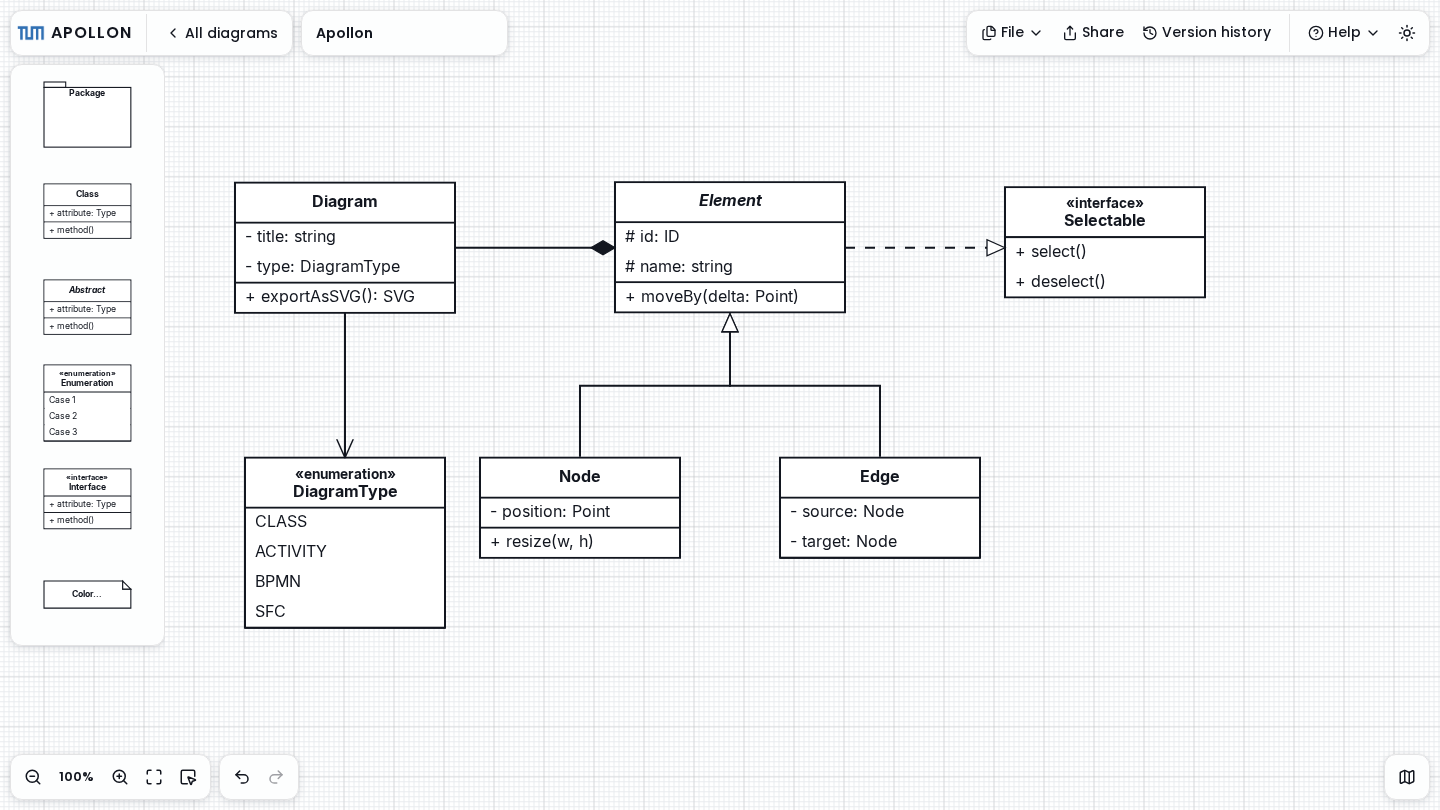
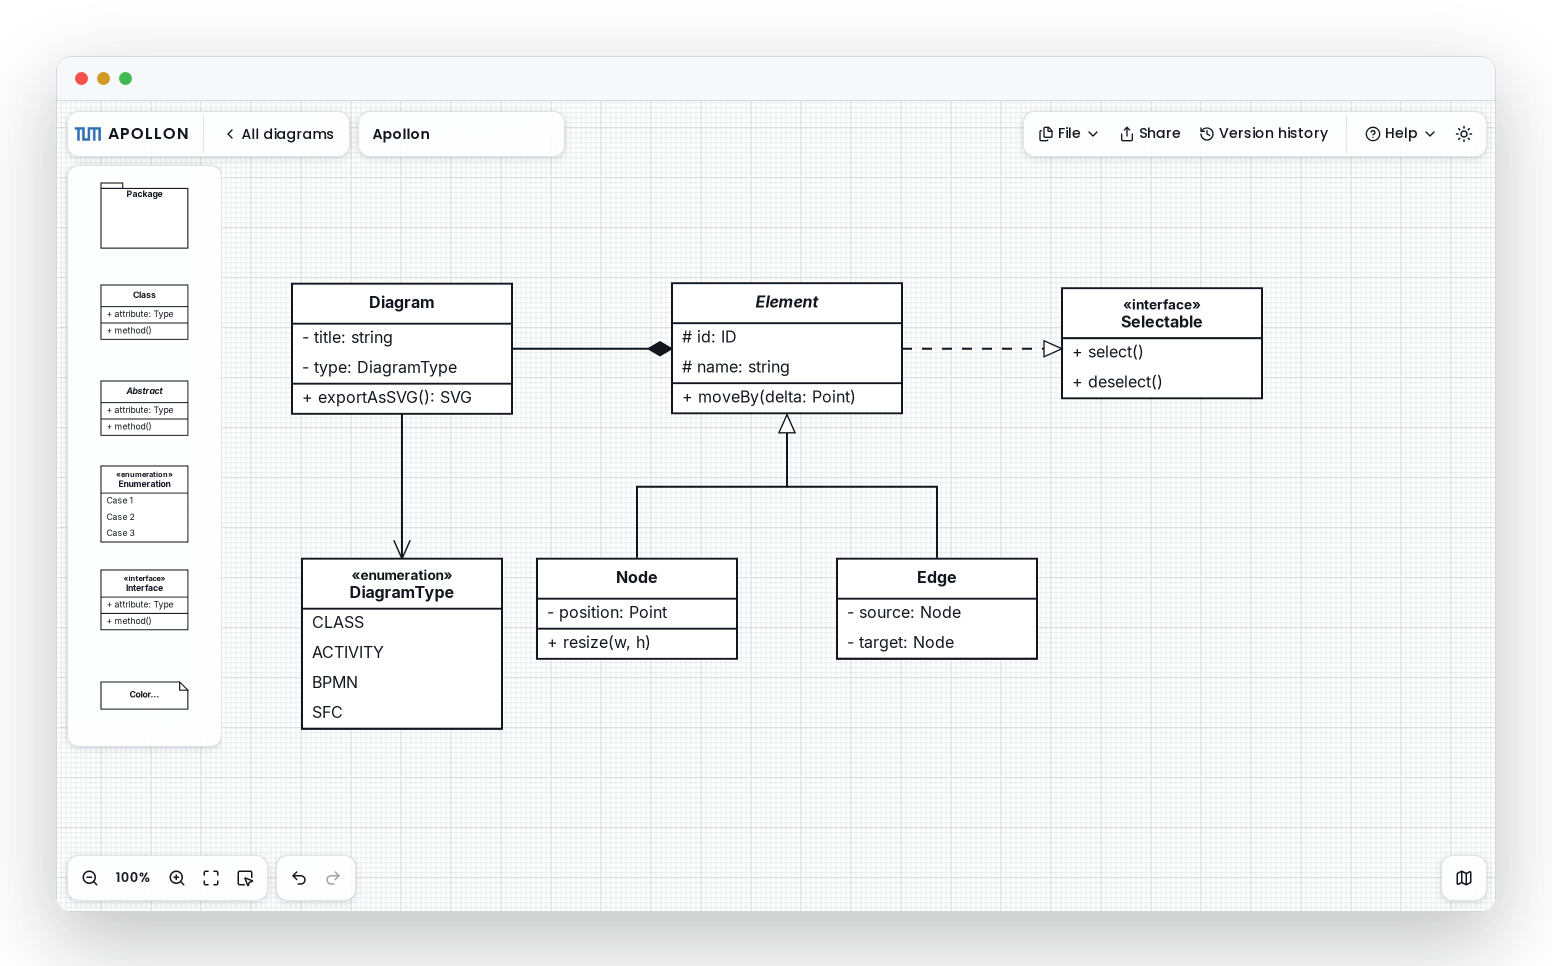
docs: present the README hero in a browser-window frame
Bare full-viewport screenshots read as a flat rectangle in the README. Wrap
the captured editor in the same window styling the social card uses -
rounded corners, titlebar with traffic lights, border, soft drop shadow -
over transparent margins, so the hero sits cleanly on both GitHub's light
and dark README backgrounds. The frame embeds the 2x capture at its CSS
size in the same deviceScaleFactor-2 context (1:1 source pixels, no
fractional resampling of diagram hairlines).

diff --git a/standalone/webapp/tests/visual/readme-assets.visual.spec.ts b/standalone/webapp/tests/visual/readme-assets.visual.spec.ts
@@ -67,17 +67,93 @@ async function openHero(page: Page, theme: "light" | "dark") {
   await page.waitForTimeout(300)
 }
 
+/**
+ * Wrap a captured editor screenshot in a browser-window frame — rounded
+ * corners, titlebar with traffic lights, border, and a soft drop shadow over a
+ * transparent background — mirroring the social card's window styling. The
+ * transparent margins make the hero sit nicely on both GitHub's light and dark
+ * README backgrounds.
+ */
+async function frameEditorShot(
+  page: Page,
+  theme: "light" | "dark",
+  editorShotB64: string
+) {
+  const margin = 56
+  const titlebar = 44
+  const width = 1440
+  const height = 810
+  await page.setViewportSize({
+    width: width + 2 * margin,
+    height: height + titlebar + 2 * margin,
+  })
+  const c =
+    theme === "dark"
+      ? { bar: "#161b22", border: "#30363d", shadow: "rgba(0, 0, 0, 0.55)" }
+      : { bar: "#f6f8fa", border: "#d0d7de", shadow: "rgba(31, 35, 40, 0.28)" }
+  await page.setContent(`<!doctype html>
+<html>
+<head>
+<style>
+  * { margin: 0; box-sizing: border-box; }
+  html, body { background: transparent; overflow: hidden; }
+  .window {
+    margin: ${margin}px;
+    width: ${width}px;
+    border-radius: 14px;
+    overflow: hidden;
+    border: 1px solid ${c.border};
+    box-shadow: 0 28px 80px ${c.shadow};
+  }
+  .titlebar {
+    height: ${titlebar}px;
+    background: ${c.bar};
+    border-bottom: 1px solid ${c.border};
+    display: flex;
+    align-items: center;
+    padding-left: 18px;
+    gap: 9px;
+  }
+  .titlebar span { width: 13px; height: 13px; border-radius: 50%; }
+  .window img { display: block; width: ${width}px; }
+</style>
+</head>
+<body>
+  <div class="window">
+    <div class="titlebar">
+      <span style="background:#f85149"></span>
+      <span style="background:#d29922"></span>
+      <span style="background:#3fb950"></span>
+    </div>
+    <img src="data:image/png;base64,${editorShotB64}" alt="" />
+  </div>
+</body>
+</html>`)
+  await page.waitForTimeout(300)
+}
+
 test.describe("README hero screenshots", () => {
   // The full app — chrome, palette, and canvas — IS the shop window here, so
-  // capture the whole viewport rather than the editor-area clip.
+  // capture the whole viewport, then present it in a window frame. The embed
+  // shows the 2×-captured screenshot at its CSS capture size (1440px) in the
+  // same deviceScaleFactor-2 context, so source pixels map 1:1 — no fractional
+  // resampling of the diagram's hairlines.
   test("editor-light", async ({ page }) => {
     await openHero(page, "light")
-    await expect(page).toHaveScreenshot("apollon-editor-light.png")
+    const shot = (await page.screenshot()).toString("base64")
+    await frameEditorShot(page, "light", shot)
+    await expect(page).toHaveScreenshot("apollon-editor-light.png", {
+      omitBackground: true,
+    })
   })
 
   test("editor-dark", async ({ page }) => {
     await openHero(page, "dark")
-    await expect(page).toHaveScreenshot("apollon-editor-dark.png")
+    const shot = (await page.screenshot()).toString("base64")
+    await frameEditorShot(page, "dark", shot)
+    await expect(page).toHaveScreenshot("apollon-editor-dark.png", {
+      omitBackground: true,
+    })
   })
 })
 